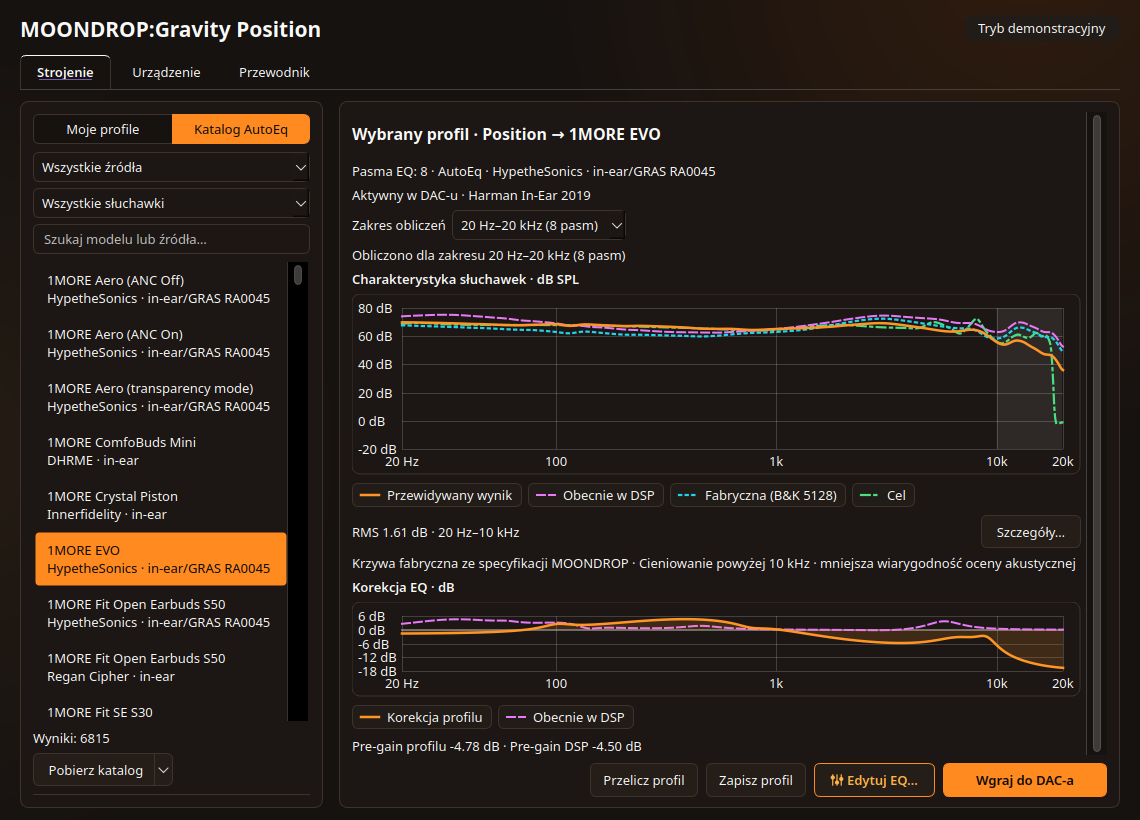
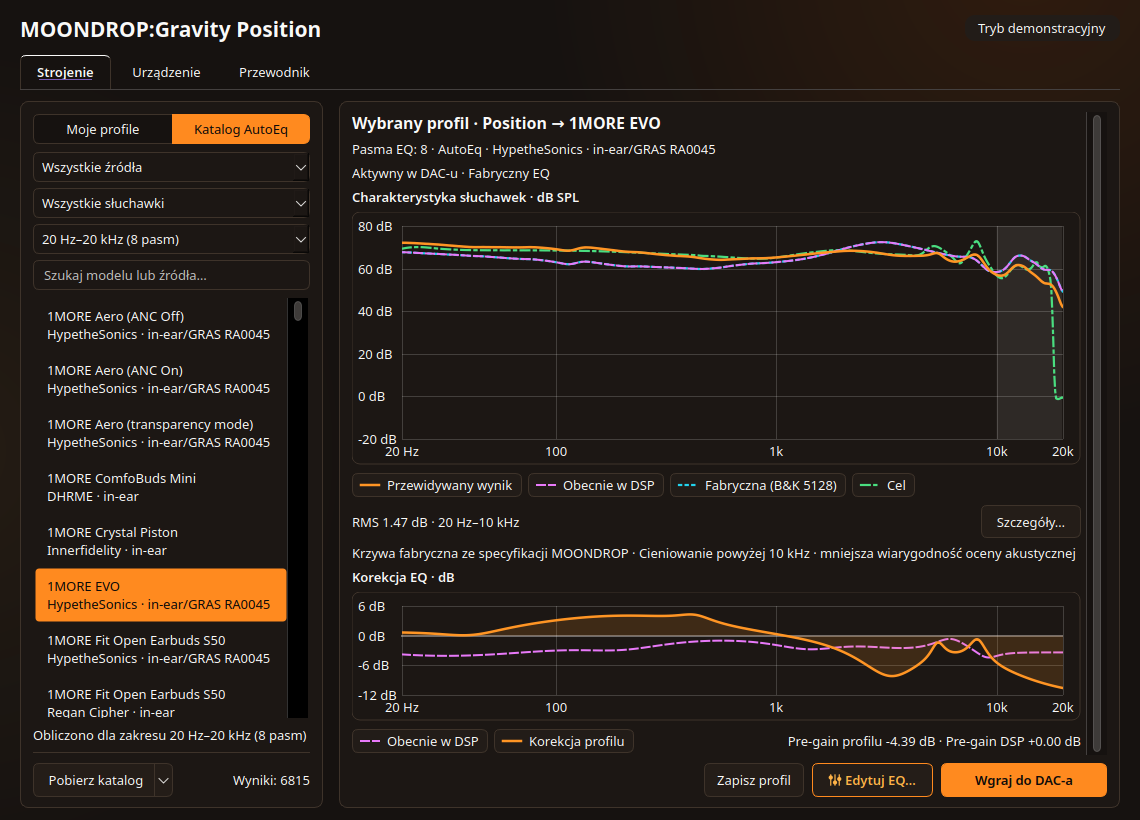
Prepare release 0.3.8 and refresh Guide/README screenshots

diff --git a/skrypty/position_gui.py b/skrypty/position_gui.py
@@ -109,7 +109,7 @@ DATA_DIR = Path(__file__).resolve().parents[1] / "dane"
 BUILTIN_PROFILE = DATA_DIR / "profile/moondrop-position-harman.json"
 HARMAN_TARGET = DATA_DIR / "targety/Harman in-ear 2019.csv"
 INNOVIBE_ICON = DATA_DIR / "innovibe.svg"
-APP_VERSION = "0.3.7"
+APP_VERSION = "0.3.8"
 GITHUB_REPO_URL = "https://github.com/tom3k5/moondrop-position-dac"
 OFFICIAL_HUB_URL = "https://hub.moondroplab.tech/"
 PROFILE_ROLE = Qt.ItemDataRole.UserRole

diff --git a/README.pl.md b/README.pl.md
@@ -85,24 +85,24 @@ Obecny transport HID otwiera bezpośrednio `/dev/hidraw*`. Portal USB Flatpaka p
 | Wzmocnienie wyjścia (`-18…0 dB`) i mikrofonu | Tak | **Tak, z opcjonalnym zapisem w profilu** |
 | Biblioteka lokalna vs flash DAC-a | Ograniczone | **Pełna biblioteka na dysku, Drag & Drop, import/eksport JSON i Equalizer APO (`.txt`)** |
 | Monitor strumienia UAC2 i próbkowania PipeWire | Nie | **Tak (`44,1–384 kHz` + odczyt głębi bitowej ALSA)** |
-| Weryfikacja zapisu i kopia zapasowa | Podstawowa | **Ścisła weryfikacja przed/po zapisie flash + kopia EQ jednym kliknięciem** |
+| Weryfikacja zapisu i kopia zapasowa | Podstawowa | **Ścisła weryfikacja przed/po zapisie flash, Przywróć poprzedni i kopia EQ jednym kliknięciem** |
 | Motywy, język i wbudowany Przewodnik | Tylko web | **Motywy InnoVibe Ciemny i Jasny, PL / EN, zakładka Przewodnik** |
 
 ---
 
 ## Zrzuty ekranu
 
-MOONDROP:Gravity Position v0.3.7 w trybie demonstracyjnym z motywem **Ciemny (InnoVibe)**.
+MOONDROP:Gravity Position v0.3.8 w trybie demonstracyjnym z motywem **Ciemny (InnoVibe)**.
 
 ### 1. Strojenie i podgląd charakterystyki
-Po lewej przeglądasz **Moje profile**, a po prawej oglądasz przewidywany efekt bez zmieniania ustawień sprzętu — **Wybrany profil** i **Aktywny w DAC-u** są wyraźnie rozdzielone, dopóki nie klikniesz **Wgraj do DAC-a** (przycisk zmienia się na **Już aktywny w DAC-u**, gdy stan sprzętu jest zgodny z wyborem).
+Po lewej przeglądasz **Moje profile**, a po prawej oglądasz przewidywany efekt bez zmieniania ustawień sprzętu — **Wybrany profil** i **Aktywny w DAC-u** są wyraźnie rozdzielone, dopóki nie klikniesz **Wgraj do DAC-a** (po zapisie przycisk zamienia się w **Przywróć poprzedni**, pozwalając jednym kliknięciem wrócić do poprzedniego stanu, albo pokazuje **Już aktywny w DAC-u**, gdy stan nie był zmieniany).
 
 - **Charakterystyka słuchawek** porównuje krzywą **Fabryczną (B&K 5128)**, **Cel**, **Przewidywany wynik** oraz **Obecnie w DSP**; przycisk **Szczegóły…** obok RMS otwiera okno ze średnim przesunięciem celu i największą odchyłką w paśmie `20 Hz–10 kHz` (zakres powyżej `10 kHz` jest zacieniowany z powodu mniejszej wiarygodności akustycznej).
-- **Korekcja EQ** pokazuje odpowiedź elektryczną filtrów przy `96 kHz` wraz z osobnym pre-gainem profilu i DSP. W mniejszym oknie użyj przełącznika wykresów. Najedź na skrócone podsumowanie dopasowania lub komunikat stanu, żeby odczytać pełny tekst.
+- **Korekcja EQ** pokazuje odpowiedź elektryczną filtrów przy `96 kHz` wraz z legendą **Obecnie w DSP** / **Korekcja profilu** i osobnym pre-gainem profilu i DSP po prawej stronie. Wysokość wykresów pozostaje stała między zakładkami przy dynamicznej skali osi Y; w mniejszym oknie pojawia się przełącznik wykresów. Najedź na skrócone podsumowanie dopasowania lub komunikat stanu, żeby odczytać pełny tekst.
 - Gdy DAC potwierdzi zaokrąglony pre-gain, pasek akcji obok **Wgraj do DAC-a** pokazuje wartość potwierdzoną przez urządzenie i wartość z profilu.
 - Klikaj pigułki legendy, aby ukrywać/pokazywać krzywe, najedź na pigułkę dla trybu **Solo**, lub najedź na wykres, by odczytać na żywo `Hz / dB / Δ dB`.
 
-![Strojenie z dwoma wykresami i potwierdzonym pre-gainem obok przycisku Wgraj do DAC-a](docs/screenshots/pl/01-tuning-profiles.png)
+![Strojenie z dwoma wykresami oraz pre-gainem obok legendy korekcji EQ](docs/screenshots/pl/01-tuning-profiles.png)
 
 <details>
 <summary>Strojenie w małym oknie</summary>
@@ -112,10 +112,10 @@ Po lewej przeglądasz **Moje profile**, a po prawej oglądasz przewidywany efekt
 </details>
 
 ### 2. Wbudowany katalog AutoEq (ponad 6800 modeli)
-W **Katalogu AutoEq** wybierz źródło pomiarów i typ słuchawek, a następnie wyszukaj model. Możesz też przeciągnąć na okno własną krzywą `.csv` / `.txt`.
+W **Katalogu AutoEq** filtruj tysiące pomiarów według **Źródła**, **Typu słuchawek** i **Zakresu obliczeń**, a następnie wyszukaj model (**Pobierz katalog** i licznik **Wyniki: …** znajdują się na wspólnym dolnym pasku). Możesz też przeciągnąć na okno własną krzywą `.csv` / `.txt`.
 
-- Wybierz **Zakres obliczeń** (`20 Hz–20 kHz` lub do `6 / 4 / 2 kHz`, aby zostawić wyższe pasma do ręcznego strojenia) i kliknij **Oblicz profil**.
-- Wyliczony profil zapamiętuje użyty zakres (również po zapisaniu na dysku) i podpowiada przeliczenie przed zapisem lub wgraniem, jeśli zmienisz zakres.
+- Wybierz zakres (`20 Hz–20 kHz` lub do `6 / 4 / 2 kHz`, aby zostawić wyższe pasma do ręcznego strojenia) i kliknij **Oblicz profil** — po obliczeniu pasek pokazuje wyłącznie gotowe akcje (**Zapisz profil**, **Edytuj EQ…**, **Wgraj do DAC-a**).
+- Wyliczony profil zapamiętuje użyty zakres (również po zapisaniu na dysku); jeśli zmienisz go później, w miejscu prawego przycisku pojawia się **Przelicz profil**, zanim zapiszesz lub wgrasz wynik.
 
 ![Katalog AutoEq](docs/screenshots/pl/02-autoeq-catalog.png)
 
@@ -145,7 +145,7 @@ Sprawdź od razu aktywny profil na DAC-u, slot (`0` fabryczny / `7` własny), pr
 </details>
 
 ### 5. Wbudowany Przewodnik, skróty i diagnostyka
-Wszystko pod ręką wewnątrz aplikacji: krótkie instrukcje wgrywania i odsłuchu, wyjaśnienie wykresów, obsługa Drag & Drop, skróty klawiszowe (`Ctrl+F` szukanie, `Ctrl+O` import, `Ctrl+Q` wyjście), kopiowanie diagnostyki jednym kliknięciem do zgłoszeń oraz odnośniki do wsparcia.
+Wszystko pod ręką wewnątrz aplikacji: krótkie instrukcje wgrywania i odsłuchu, wyjaśnienie wykresów, obsługa Drag & Drop, skróty klawiszowe (`Ctrl+F` szukanie, `Ctrl+O` import, `Ctrl+Q` wyjście), kopiowanie diagnostyki jednym kliknięciem do zgłoszeń, informacja o wersji i licencji w prawym dolnym rogu oraz odnośniki do wsparcia.
 
 ![Zakładka Przewodnik](docs/screenshots/pl/05-guide-tab.png)
 

diff --git a/README.md b/README.md
@@ -85,24 +85,24 @@ The current HID transport opens `/dev/hidraw*` directly. Flatpak's USB portal su
 | Output Gain (`-18…0 dB`) & Mic Gain | Yes | **Yes, optional per-profile bundling** |
 | Local Library vs DAC Flash | Limited | **Full local library, Drag & Drop, JSON & Equalizer APO (`.txt`) import/export** |
 | PipeWire UAC2 Monitor & Sample Rate | No | **Yes (`44.1–384 kHz` + ALSA bit-depth readout)** |
-| Readback Verification & Backup | Basic | **Pre/post-flash verification & 1-click DAC backup** |
+| Readback Verification & Backup | Basic | **Pre/post-flash verification, 1-click Restore previous & DAC backup** |
 | Themes, Language & Built-in Guide | Web only | **InnoVibe Dark & Light themes, EN / PL, built-in Guide tab** |
 
 ---
 
 ## Screenshots
 
-MOONDROP:Gravity Position v0.3.7 running in demo mode with the **InnoVibe Dark** theme.
+MOONDROP:Gravity Position v0.3.8 running in demo mode with the **InnoVibe Dark** theme.
 
 ### 1. Tuning & Frequency Response Preview
-Browse **My profiles** on the left and inspect the prediction on the right without touching your DAC — **Selected profile** and **Active on DAC** stay clearly separated until you click **Apply to DAC** (which changes to **Already active on DAC** once matched).
+Browse **My profiles** on the left and inspect the prediction on the right without touching your DAC — **Selected profile** and **Active on DAC** stay clearly separated until you click **Apply to DAC** (which changes to **Restore previous** after flashing so you can revert in one click, or shows **Already active on DAC** for an unchanged active state).
 
 - **Headphone response** compares the **Factory (B&K 5128)** baseline, **Target**, **Predicted result**, and **Current in DSP**; click **Details…** next to RMS to inspect the mean target offset and peak deviation in the `20 Hz–10 kHz` band (frequencies above `10 kHz` are shaded due to lower acoustic confidence).
-- **EQ correction** displays the electrical filter curve at `96 kHz` with profile and DSP pre-gain listed separately. On compact windows, use the view switcher. Hover over a shortened fit summary or status message to read the full text.
+- **EQ correction** displays the electrical filter curve at `96 kHz` with **Current in DSP** and **Profile EQ** legend pills alongside separate profile and DSP pre-gain on the right. Plot heights stay locked across tabs while Y-axis scales adapt dynamically; compact windows use a view switcher. Hover over a shortened fit summary or status message to read the full text.
 - When the DAC confirms a rounded pre-gain, the action bar beside **Apply to DAC** shows the confirmed value and the profile value.
 - Click legend pills to hide/show curves, hover a pill to **solo** it, or hover the plot for a live `Hz / dB / Δ dB` readout.
 
-![Tuning with both plots and the confirmed DAC pre-gain beside Apply to DAC](docs/screenshots/01-tuning-profiles.png)
+![Tuning with both plots and pre-gain beside the EQ correction legend](docs/screenshots/01-tuning-profiles.png)
 
 <details>
 <summary>Compact Tuning view</summary>
@@ -112,10 +112,10 @@ Browse **My profiles** on the left and inspect the prediction on the right witho
 </details>
 
 ### 2. Built-in AutoEq Catalog (6,800+ Models)
-Switch to **AutoEq catalog** to filter thousands of IEM and over-ear measurements by source and headphone type, then search by model. You can also drop your own `.csv` / `.txt` curve onto the window.
+Switch to **AutoEq catalog** to filter thousands of IEM and over-ear measurements by **Source**, **Headphone type**, and **Fit range**, then search by model (`Get catalog` and the result count sit on the shared bottom bar). You can also drop your own `.csv` / `.txt` curve onto the window.
 
-- Pick a **Fit range** (`20 Hz–20 kHz` or up to `6 / 4 / 2 kHz` to keep upper bands free for manual treble tweaks) and click **Compute profile**.
-- Each computed profile records its fit range (including when saved to disk) and prompts you to recompute if you change the range before saving or applying.
+- Pick a **Fit range** (`20 Hz–20 kHz` or up to `6 / 4 / 2 kHz` to keep upper bands free for manual treble tweaks) and click **Compute profile** — the action bar cleanly reveals **Save profile**, **Edit EQ…**, and **Apply to DAC** once fitted.
+- Each computed profile records its fit range (including when saved to disk); if you change the range afterwards, **Recompute profile** replaces the right action button so you never apply or save a stale fit.
 
 ![AutoEq Catalog](docs/screenshots/02-autoeq-catalog.png)
 
@@ -145,7 +145,7 @@ Check your active DAC profile, slot (`0` Factory / `7` Custom), pre-gain, and ou
 </details>
 
 ### 5. Built-in Guide, Shortcuts & Diagnostics
-Everything you need inside the app: quick walkthroughs for tuning and live preview, drag-and-drop import tips, keyboard shortcuts (`Ctrl+F` search, `Ctrl+O` import, `Ctrl+Q` quit), 1-click diagnostic copy for bug reports, and direct support links.
+Everything you need inside the app: quick walkthroughs for tuning and live preview, drag-and-drop import tips, keyboard shortcuts (`Ctrl+F` search, `Ctrl+O` import, `Ctrl+Q` quit), 1-click diagnostic copy for bug reports, the current version and license indicator in the bottom-right corner, and direct support links.
 
 ![Guide Tab](docs/screenshots/05-guide-tab.png)
 
